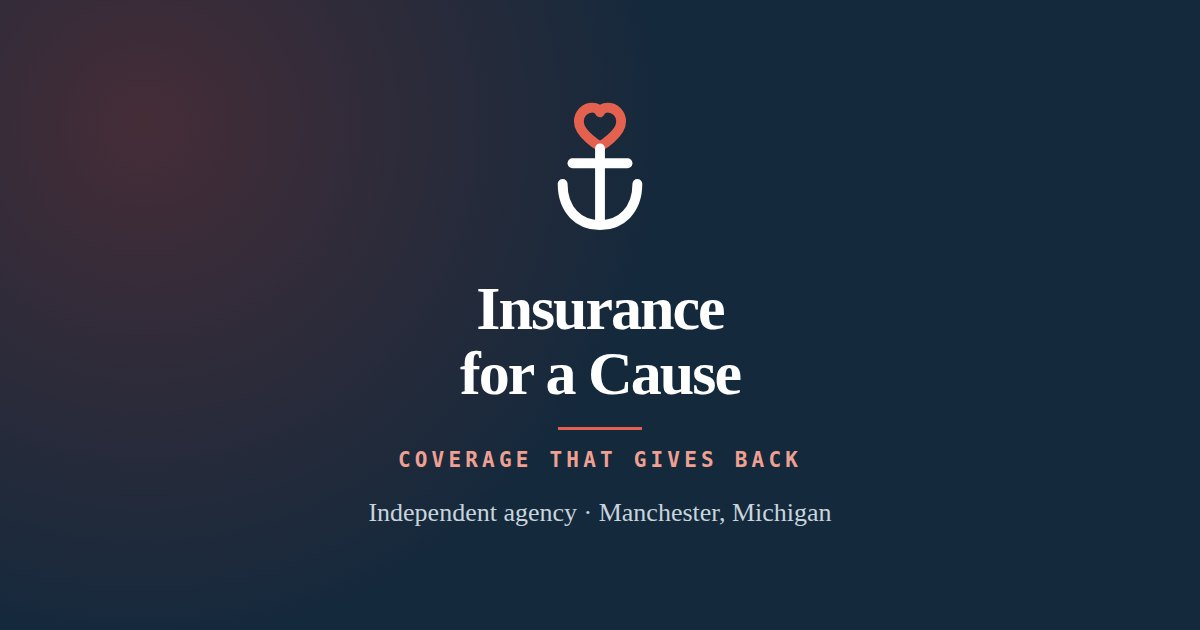
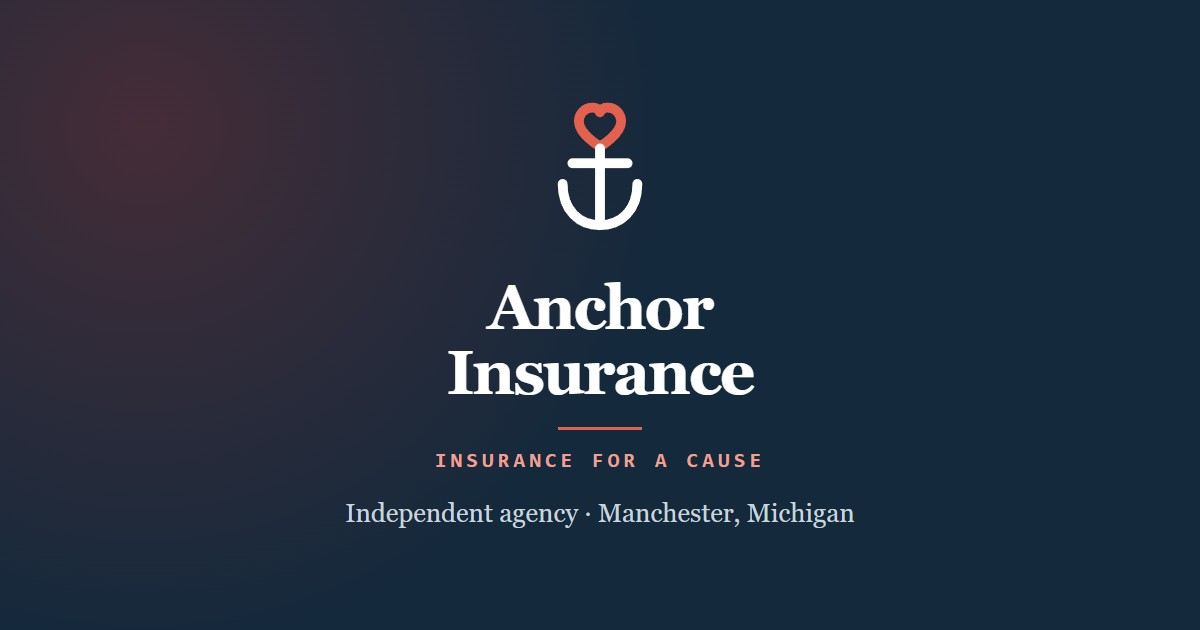
The client is Anchor Insurance now; the old name becomes the tagline
Decided at the August 28 pitch meeting: everything runs under the Anchor
name. "Insurance for a cause" is demoted to the tagline, replacing
"Coverage that gives back". The giving program is unchanged, and the
structured data keeps the old name as alternateName for continuity.

The pitch directory follows the repo name to public/pitch/anchor/, both
link cards are re-rendered, and the assumed domain moves off
insuranceforacause.com. Audited: 21 routes, 0 violations at 320, 390,
768 and 1440, no overflow, no console errors.

Changed region(s): [[0.37, 0.4524, 0.6475, 0.6333], [0.2775, 0.7841, 0.7092, 0.8444], [0.3392, 0.6937, 0.6783, 0.754]]

diff --git a/public/pitch/anchor/logo.html b/public/pitch/anchor/logo.html
@@ -3,7 +3,7 @@
 <head>
 <meta charset="utf-8">
 <meta name="viewport" content="width=device-width, initial-scale=1">
-<title>The mark — Insurance for a Cause</title>
+<title>The mark — Anchor Insurance</title>
 <meta name="robots" content="noindex, nofollow">
 <!-- THE DONUT ON GLAZED'S DOCUMENTS, THE ANCHOR ON HERS.
      This page and the logo presentation are Glazed's, so they carry Glazed's
@@ -21,9 +21,9 @@
      SVG first for the shape, .ico after it for Safari, which does not take an
      SVG through rel=icon. Absolute paths, because /logo and / are rewrites and
      a relative href would resolve against the pretty URL instead of this file. -->
-<link rel="icon" href="/pitch/insuranceforacause/favicon.svg" type="image/svg+xml">
-<link rel="icon" href="/pitch/insuranceforacause/favicon.ico" sizes="any">
-<link rel="apple-touch-icon" href="/pitch/insuranceforacause/apple-touch-icon.png">
+<link rel="icon" href="/pitch/anchor/favicon.svg" type="image/svg+xml">
+<link rel="icon" href="/pitch/anchor/favicon.ico" sizes="any">
+<link rel="apple-touch-icon" href="/pitch/anchor/apple-touch-icon.png">
 <style>
 /* Palette lifted from glazedweb app/globals.css. Three pinks on purpose. */
 :root{
@@ -282,7 +282,7 @@ footer .inner{max-width:1100px;margin:0 auto;padding:52px 24px 34px}
       <svg width="24" height="31" viewBox="46 16 110 186" overflow="visible" aria-hidden="true"><use href="#mark"/></svg>
       <span class="bw">glazed<span>web</span></span>
     </a>
-    <div class="navfor">Prepared for<b>Insurance for a Cause</b></div>
+    <div class="navfor">Prepared for<b>Anchor Insurance</b></div>
   </div>
 </header>
 
@@ -294,8 +294,8 @@ footer .inner{max-width:1100px;margin:0 auto;padding:52px 24px 34px}
 
 <div class="ticker" aria-hidden="true">
   <div class="ticker-inner">
-    <span>Anchor Insurance and Risk Management</span><span>&bull;</span><span>Coverage that gives back</span><span>&bull;</span><span>Manchester, Michigan</span><span>&bull;</span><span>Independent agency</span><span>&bull;</span><span>Anchor Insurance and Risk Management</span><span>&bull;</span><span>Coverage that gives back</span><span>&bull;</span><span>Manchester, Michigan</span><span>&bull;</span><span>Independent agency</span><span>&bull;</span>
-    <span>Anchor Insurance and Risk Management</span><span>&bull;</span><span>Coverage that gives back</span><span>&bull;</span><span>Manchester, Michigan</span><span>&bull;</span><span>Independent agency</span><span>&bull;</span><span>Anchor Insurance and Risk Management</span><span>&bull;</span><span>Coverage that gives back</span><span>&bull;</span><span>Manchester, Michigan</span><span>&bull;</span><span>Independent agency</span><span>&bull;</span>
+    <span>Anchor Insurance and Risk Management</span><span>&bull;</span><span>Insurance for a cause</span><span>&bull;</span><span>Manchester, Michigan</span><span>&bull;</span><span>Independent agency</span><span>&bull;</span><span>Anchor Insurance and Risk Management</span><span>&bull;</span><span>Insurance for a cause</span><span>&bull;</span><span>Manchester, Michigan</span><span>&bull;</span><span>Independent agency</span><span>&bull;</span>
+    <span>Anchor Insurance and Risk Management</span><span>&bull;</span><span>Insurance for a cause</span><span>&bull;</span><span>Manchester, Michigan</span><span>&bull;</span><span>Independent agency</span><span>&bull;</span><span>Anchor Insurance and Risk Management</span><span>&bull;</span><span>Insurance for a cause</span><span>&bull;</span><span>Manchester, Michigan</span><span>&bull;</span><span>Independent agency</span><span>&bull;</span>
   </div>
 </div>
 
@@ -314,8 +314,8 @@ footer .inner{max-width:1100px;margin:0 auto;padding:52px 24px 34px}
       <div class="lock">
         <svg width="96" height="120" viewBox="0 0 120 150" aria-hidden="true"><use href="#ifac"/></svg>
         <div class="wm">
-          <span class="big">Insurance for a Cause</span>
-          <span class="tl">Coverage that gives back</span>
+          <span class="big">Anchor Insurance</span>
+          <span class="tl">Insurance for a cause</span>
         </div>
       </div>
     </div>
@@ -324,7 +324,7 @@ footer .inner{max-width:1100px;margin:0 auto;padding:52px 24px 34px}
     <div class="stage navy reveal">
       <div class="lockh">
         <svg width="62" height="78" viewBox="0 0 120 150" style="--a-ink:#ffffff;--a-accent:#E4614F" aria-hidden="true"><use href="#ifac"/></svg>
-        <div class="wm"><span class="big">Insurance for a Cause</span><span class="tl">Coverage that gives back</span></div>
+        <div class="wm"><span class="big">Anchor Insurance</span><span class="tl">Insurance for a cause</span></div>
       </div>
     </div>
     <p class="cap">Horizontal, reversed</p>
@@ -332,7 +332,7 @@ footer .inner{max-width:1100px;margin:0 auto;padding:52px 24px 34px}
     <div class="stage brick reveal">
       <div class="lockh">
         <svg width="62" height="78" viewBox="0 0 120 150" style="--a-ink:#ffffff;--a-accent:#ffffff" aria-hidden="true"><use href="#ifac"/></svg>
-        <div class="wm"><span class="big">Insurance for a Cause</span><span class="tl">Coverage that gives back</span></div>
+        <div class="wm"><span class="big">Anchor Insurance</span><span class="tl">Insurance for a cause</span></div>
       </div>
     </div>
     <p class="cap">On the loud one</p>
@@ -404,13 +404,13 @@ footer .inner{max-width:1100px;margin:0 auto;padding:52px 24px 34px}
           <div class="sitenav">
             <div class="lk">
               <svg width="26" height="33" viewBox="0 0 120 150" aria-hidden="true"><use href="#ifac"/></svg>
-              <span class="n">Insurance for a Cause<em>Coverage that gives back</em></span>
+              <span class="n">Anchor Insurance<em>Insurance for a cause</em></span>
             </div>
             <ul><li>Auto</li><li>Home</li><li>Our giving</li><li>About</li><li>Contact</li></ul>
             <span class="cta">Get a quote</span>
           </div>
           <div class="sitehero">
-            <h4>Coverage that gives back.</h4>
+            <h4>Insurance for a cause.</h4>
             <p>An independent agency in <span class="ph">Manchester</span>, shopping <span class="ph">your carriers</span> for you, and giving a share of every commission to a local cause you can watch us pick.</p>
             <div class="row"><span class="b1">Get my quote</span><span class="b2">See where the money went</span></div>
           </div>
@@ -425,7 +425,7 @@ footer .inner{max-width:1100px;margin:0 auto;padding:52px 24px 34px}
         <div class="card2 reveal">
           <div class="top">
             <svg width="30" height="38" viewBox="0 0 120 150" aria-hidden="true"><use href="#ifac"/></svg>
-            <span class="n">Insurance for a Cause<em>Coverage that gives back</em></span>
+            <span class="n">Anchor Insurance<em>Insurance for a cause</em></span>
           </div>
           <div class="who">
             <b><span class="ph">[Owner name]</span></b>
@@ -436,7 +436,7 @@ footer .inner{max-width:1100px;margin:0 auto;padding:52px 24px 34px}
         <div class="card2 back reveal">
           <div class="mid">
             <svg width="46" height="58" viewBox="0 0 120 150" style="--a-ink:#ffffff;--a-accent:#E4614F" aria-hidden="true"><use href="#ifac"/></svg>
-            <b style="margin-top:12px">Coverage that gives back</b>
+            <b style="margin-top:12px">Insurance for a cause</b>
             <span>A share of every commission stays in <span class="ph" style="background:rgba(255,255,255,.22);border-color:rgba(255,255,255,.6);color:#fff">[your county]</span>.</span>
           </div>
         </div>
@@ -473,7 +473,7 @@ footer .inner{max-width:1100px;margin:0 auto;padding:52px 24px 34px}
       <p class="foot-note">Hand-built websites for small businesses in and around Marshall, Michigan. <a href="https://glazedweb.com">glazedweb.com</a></p>
     </div>
     <div class="foot-bottom">
-      <span>Prepared for Insurance for a Cause, August 2026.</span>
+      <span>Prepared for Anchor Insurance, August 2026.</span>
       <span>Colors and files final once you pick the photograph.</span>
     </div>
   </div>

diff --git a/public/pitch/anchor/index.html b/public/pitch/anchor/index.html
@@ -3,16 +3,16 @@
 <head>
 <meta charset="utf-8">
 <meta name="viewport" content="width=device-width, initial-scale=1">
-<title>Can anyone check that you gave? A proposal for Insurance for a Cause</title>
-<meta name="description" content="A website proposal for Insurance for a Cause in Michigan, where every claim links to the proof.">
+<title>Can anyone check that you gave? A proposal for Anchor Insurance</title>
+<meta name="description" content="A website proposal for Anchor Insurance in Michigan, where every claim links to the proof.">
 <meta name="robots" content="noindex, nofollow">
 
 <meta property="og:type" content="website">
 <meta property="og:site_name" content="Glazed Web">
 <meta property="og:title" content="Can anyone check that you gave?">
-<meta property="og:description" content="A website proposal for Insurance for a Cause, where every claim links to the proof.">
+<meta property="og:description" content="A website proposal for Anchor Insurance, where every claim links to the proof.">
 <meta property="og:url" content="https://anchor.glazedweb.com/">
-<meta property="og:image" content="https://anchor.glazedweb.com/pitch/insuranceforacause/og.jpg">
+<meta property="og:image" content="https://anchor.glazedweb.com/pitch/anchor/og.jpg">
 <meta property="og:image:width" content="1200">
 <meta property="og:image:height" content="630">
 <meta property="og:image:alt" content="Can anyone check that you gave? A proposal from Glazed Web.">
@@ -34,9 +34,9 @@
      SVG first for the shape, .ico after it for Safari, which does not take an
      SVG through rel=icon. Absolute paths, because /logo and / are rewrites and
      a relative href would resolve against the pretty URL instead of this file. -->
-<link rel="icon" href="/pitch/insuranceforacause/favicon.svg" type="image/svg+xml">
-<link rel="icon" href="/pitch/insuranceforacause/favicon.ico" sizes="any">
-<link rel="apple-touch-icon" href="/pitch/insuranceforacause/apple-touch-icon.png">
+<link rel="icon" href="/pitch/anchor/favicon.svg" type="image/svg+xml">
+<link rel="icon" href="/pitch/anchor/favicon.ico" sizes="any">
+<link rel="apple-touch-icon" href="/pitch/anchor/apple-touch-icon.png">
 
 <style>
 /* Palette and type lifted from glazedweb app/globals.css. Three pinks on
@@ -421,7 +421,7 @@ footer .inner { max-width: 1100px; margin: 0 auto; padding: 56px 24px 36px; }
     </a>
     <div class="navfor">
       Prepared for
-      <b>Insurance for a Cause</b>
+      <b>Anchor Insurance</b>
     </div>
   </div>
 </header>
@@ -639,7 +639,7 @@ footer .inner { max-width: 1100px; margin: 0 auto; padding: 56px 24px 36px; }
     <div class="pricewrap">
       <div class="pcard reveal">
         <span class="tag">Custom Order</span>
-        <h3>Insurance for a Cause</h3>
+        <h3>Anchor Insurance</h3>
         <p class="flavor">Anchor Insurance and Risk Management</p>
         <p class="price">
           <span class="was" aria-hidden="true">Market <s>$18,200</s></span>
@@ -686,7 +686,7 @@ footer .inner { max-width: 1100px; margin: 0 auto; padding: 56px 24px 36px; }
   <div class="inner">
     <h2>Give us thirty minutes.</h2>
     <p>We will sit down with you, walk through the findings on a phone, and you can tell us where we are wrong. No slides.</p>
-    <a class="btn big" href="mailto:kevin@glazedweb.com?subject=Insurance%20for%20a%20Cause%20website%20proposal">Email Kevin</a>
+    <a class="btn big" href="mailto:kevin@glazedweb.com?subject=Anchor%20Insurance%20website%20proposal">Email Kevin</a>
     <p class="after" style="margin-top:18px"><a href="/demo" style="color:#fff;font-weight:700">Or open the site one more time</a></p>
     <p class="after">Glazed Web is one person in Marshall. You would be working with Kevin, start to finish.</p>
   </div>
@@ -702,7 +702,7 @@ footer .inner { max-width: 1100px; margin: 0 auto; padding: 56px 24px 36px; }
       <p class="foot-note">Hand-built websites for small businesses in and around Marshall, Michigan. <a href="https://glazedweb.com">glazedweb.com</a></p>
     </div>
     <div class="foot-bottom">
-      <span>Prepared for Insurance for a Cause, August 2026.</span>
+      <span>Prepared for Anchor Insurance, August 2026.</span>
       <span>Findings verified against the live sites on August 20, 2026.</span>
     </div>
   </div>

diff --git a/lib/site.ts b/lib/site.ts
@@ -20,18 +20,32 @@ export const ph = (v: string): string =>
   isPlaceholder(v) ? `[${v.slice("PLACEHOLDER:".length)}]` : v;
 
 export const site = {
-  /** The DBA. What is on the door and what customers say. */
-  name: "Insurance for a Cause",
+  /**
+   * What is on the door and what customers say. The short form of the
+   * licensed entity below.
+   *
+   * This was "Insurance for a Cause" until August 28, 2026, when the client
+   * decided at the pitch meeting that everything runs under the Anchor name.
+   * The old name did not die: it moved into `tagline`. Do not resurrect it as
+   * the customer-facing name.
+   */
+  name: "Anchor Insurance",
   /** The licensed entity. Has to appear, and is not the same string. */
   legalName: "Anchor Insurance and Risk Management",
-  tagline: "Coverage that gives back",
+  /**
+   * "Insurance for a cause" is the retired DBA demoted to the tagline, per the
+   * client on August 28, 2026. It replaced "Coverage that gives back"
+   * everywhere the tagline renders: the lockup, the footer, the cards.
+   */
+  tagline: "Insurance for a cause",
   /**
    * PLACEHOLDER in effect: the domain is not bought yet. This is an assumption,
    * and it is load-bearing because `metadataBase` and the sitemap are both
-   * built from it. Confirm the real domain before launch and change it here
-   * only; nothing else hardcodes it.
+   * built from it. It changed with the rename (the old assumption was
+   * insuranceforacause.com). Confirm the real domain before launch and change
+   * it here only; nothing else hardcodes it.
    */
-  url: "https://insuranceforacause.com" as string,
+  url: "https://anchorinsurancemi.com" as string,
   urlConfirmed: false,
 
   owner: {

diff --git a/components/Logo.tsx b/components/Logo.tsx
@@ -1,7 +1,7 @@
 /**
- * The Insurance for a Cause mark.
+ * The Anchor Insurance mark.
  *
- * An anchor, because the licensed agency is Anchor Insurance and Risk
+ * An anchor, because the agency is Anchor Insurance and Risk
  * Management and it is already the best symbol in the category: stability,
  * holding fast, not drifting. The one change is the ring at the top, the part
  * the rope passes through, which is a heart. It is not decoration attached to
@@ -102,6 +102,12 @@ export function Mark({
  * The full lockup. The tagline sits under the name because the client asked for
  * the promise to live in the logo itself, which also means it appears on every
  * page without having to be worked into a headline.
+ *
+ * The two strings flipped on August 28, 2026: "Insurance for a Cause" was the
+ * customer-facing name until the client folded everything under Anchor
+ * Insurance, and the old name became the tagline. The strings are literals
+ * rather than reads from lib/site.ts because this is artwork, not copy: the
+ * lockup's sizes and spacing are tuned to these exact words.
  */
 export function Lockup({
   markWidth = 34,
@@ -142,7 +148,7 @@ export function Lockup({
             color: ink,
           }}
         >
-          Insurance for a Cause
+          Anchor Insurance
         </span>
         {compact ? null : (
           <span
@@ -157,7 +163,7 @@ export function Lockup({
               marginTop: 4,
             }}
           >
-            Coverage that gives back
+            Insurance for a cause
           </span>
         )}
       </span>

diff --git a/app/about/page.tsx b/app/about/page.tsx
@@ -3,7 +3,7 @@ import { site, giving, ph, isPlaceholder } from "@/lib/site";
 
 export const metadata = {
   title: "About",
-  description: `${site.name} is the trade name of ${site.legalName}, an independent insurance agency in ${site.contact.city}, Michigan.`,
+  description: `${site.legalName}, an independent insurance agency in ${site.contact.city}, Michigan.`,
 };
 
 export default function About() {
@@ -60,10 +60,13 @@ export default function About() {
           <aside className="side">
             <h2>The agency</h2>
             <dl className="factlist">
+              {/* There was a "Doing business as" row here when the site ran
+                  under the Insurance for a Cause name. The client folded
+                  everything under Anchor Insurance on August 28, 2026, and
+                  "Anchor Insurance" is a short form, not a registered DBA, so
+                  claiming it as one would be a false fact on the about page. */}
               <dt>Legal name</dt>
               <dd>{site.legalName}</dd>
-              <dt>Doing business as</dt>
-              <dd>{site.name}</dd>
               <dt>Owner</dt>
               <dd><span className="ph">{ph(site.owner.name)}</span></dd>
               <dt>Licensed in</dt>

diff --git a/app/layout.tsx b/app/layout.tsx
@@ -44,7 +44,7 @@ export const metadata: Metadata = {
      host and at /x on hers competes with itself. */
   alternates: { canonical: "/" },
   title: {
-    default: `${site.name} | Independent insurance in ${site.contact.city}, Michigan`,
+    default: `${site.name} | Independent agency in ${site.contact.city}, Michigan`,
     template: `%s | ${site.name}`,
   },
   description:
@@ -59,7 +59,7 @@ export const metadata: Metadata = {
   openGraph: {
     type: "website",
     siteName: site.name,
-    title: `${site.name} | Coverage that gives back`,
+    title: `${site.name} | ${site.tagline}`,
     description:
       "Independent auto, home and business insurance in Michigan. We give a share of every commission to a local cause and publish the ledger.",
     url: "/",
@@ -68,7 +68,7 @@ export const metadata: Metadata = {
         url: "/og.jpg",
         width: 1200,
         height: 630,
-        alt: `${site.name}. Coverage that gives back. An independent agency in ${site.contact.city}, Michigan.`,
+        alt: `${site.name}. ${site.tagline}. An independent agency in ${site.contact.city}, Michigan.`,
       },
     ],
   },

diff --git a/components/Footer.tsx b/components/Footer.tsx
@@ -13,9 +13,9 @@ export default function Footer() {
         <div className="foot-brand">
           <Mark width={44} ink="#ffffff" accent="#f0a093" />
           <p className="foot-name">{site.name}</p>
-          <p className="foot-tag">Coverage that gives back</p>
+          <p className="foot-tag">{site.tagline}</p>
           <p className="foot-legal">
-            A trade name of {site.legalName}. An independent agency, which means we shop several carriers for you instead of selling one company&rsquo;s product.
+            The full name on the license is {site.legalName}. An independent agency, which means we shop several carriers for you instead of selling one company&rsquo;s product.
           </p>
         </div>
 

diff --git a/tools/og-card.html b/tools/og-card.html
@@ -4,7 +4,7 @@
 <meta charset="utf-8">
 <title>og card source</title>
 <!--
-  Source page for public/pitch/insuranceforacause/og.jpg. Rendered rather than assembled
+  Source page for public/pitch/anchor/og.jpg. Rendered rather than assembled
   in an image editor, so the card uses the studio's own palette and the real
   mark and cannot drift from them. Screenshot at 1200x630, 1x.
 
@@ -109,7 +109,7 @@
     </div>
     <p class="kicker">A website proposal</p>
     <h1>Can anyone check <em>that you gave?</em></h1>
-    <p class="sig">for <b>Insurance for a Cause</b></p>
+    <p class="sig">for <b>Anchor Insurance</b></p>
   </div>
 
 <svg class="drip" viewBox="0 0 1440 60" preserveAspectRatio="none" aria-hidden="true">

diff --git a/next.config.ts b/next.config.ts
@@ -42,8 +42,8 @@ const nextConfig: NextConfig = {
      */
     return {
       beforeFiles: [
-        { source: "/", destination: "/pitch/insuranceforacause/index.html", has: onPitchHost },
-        { source: "/logo", destination: "/pitch/insuranceforacause/logo.html", has: onPitchHost },
+        { source: "/", destination: "/pitch/anchor/index.html", has: onPitchHost },
+        { source: "/logo", destination: "/pitch/anchor/logo.html", has: onPitchHost },
         { source: "/demo", destination: "/", has: onPitchHost },
         { source: "/demo/:path*", destination: "/:path*", has: onPitchHost },
       ],

diff --git a/components/LocalBusinessSchema.tsx b/components/LocalBusinessSchema.tsx
@@ -42,7 +42,9 @@ export default function LocalBusinessSchema() {
     "@type": "InsuranceAgency",
     name: site.name,
     legalName: site.legalName,
-    alternateName: site.legalName,
+    // The former DBA, kept as an alternate name so anything that indexed the
+    // agency under it before the August 2026 rename still resolves here.
+    alternateName: "Insurance for a Cause",
     url: origin,
     logo: `${origin}/icon.png`,
     image: `${origin}/og.jpg`,

diff --git a/tools/demo-og-card.html b/tools/demo-og-card.html
@@ -46,9 +46,9 @@
         <path d="M22 83 C22 110 39 125 60 125 C81 125 98 110 98 83"/>
       </g>
     </svg>
-    <p class="name">Insurance<br>for a Cause</p>
+    <p class="name">Anchor<br>Insurance</p>
     <div class="rule"></div>
-    <p class="tag">Coverage that gives back</p>
+    <p class="tag">Insurance for a cause</p>
     <p class="where">Independent agency &middot; Manchester, Michigan</p>
   </div>
 </body>

diff --git a/app/globals.css b/app/globals.css
@@ -1,5 +1,5 @@
 /**
- * Insurance for a Cause.
+ * Anchor Insurance.
  *
  * Navy carries the trust and red marks the giving, and red never does anything
  * else. The moment red starts showing up on every card it stops meaning
